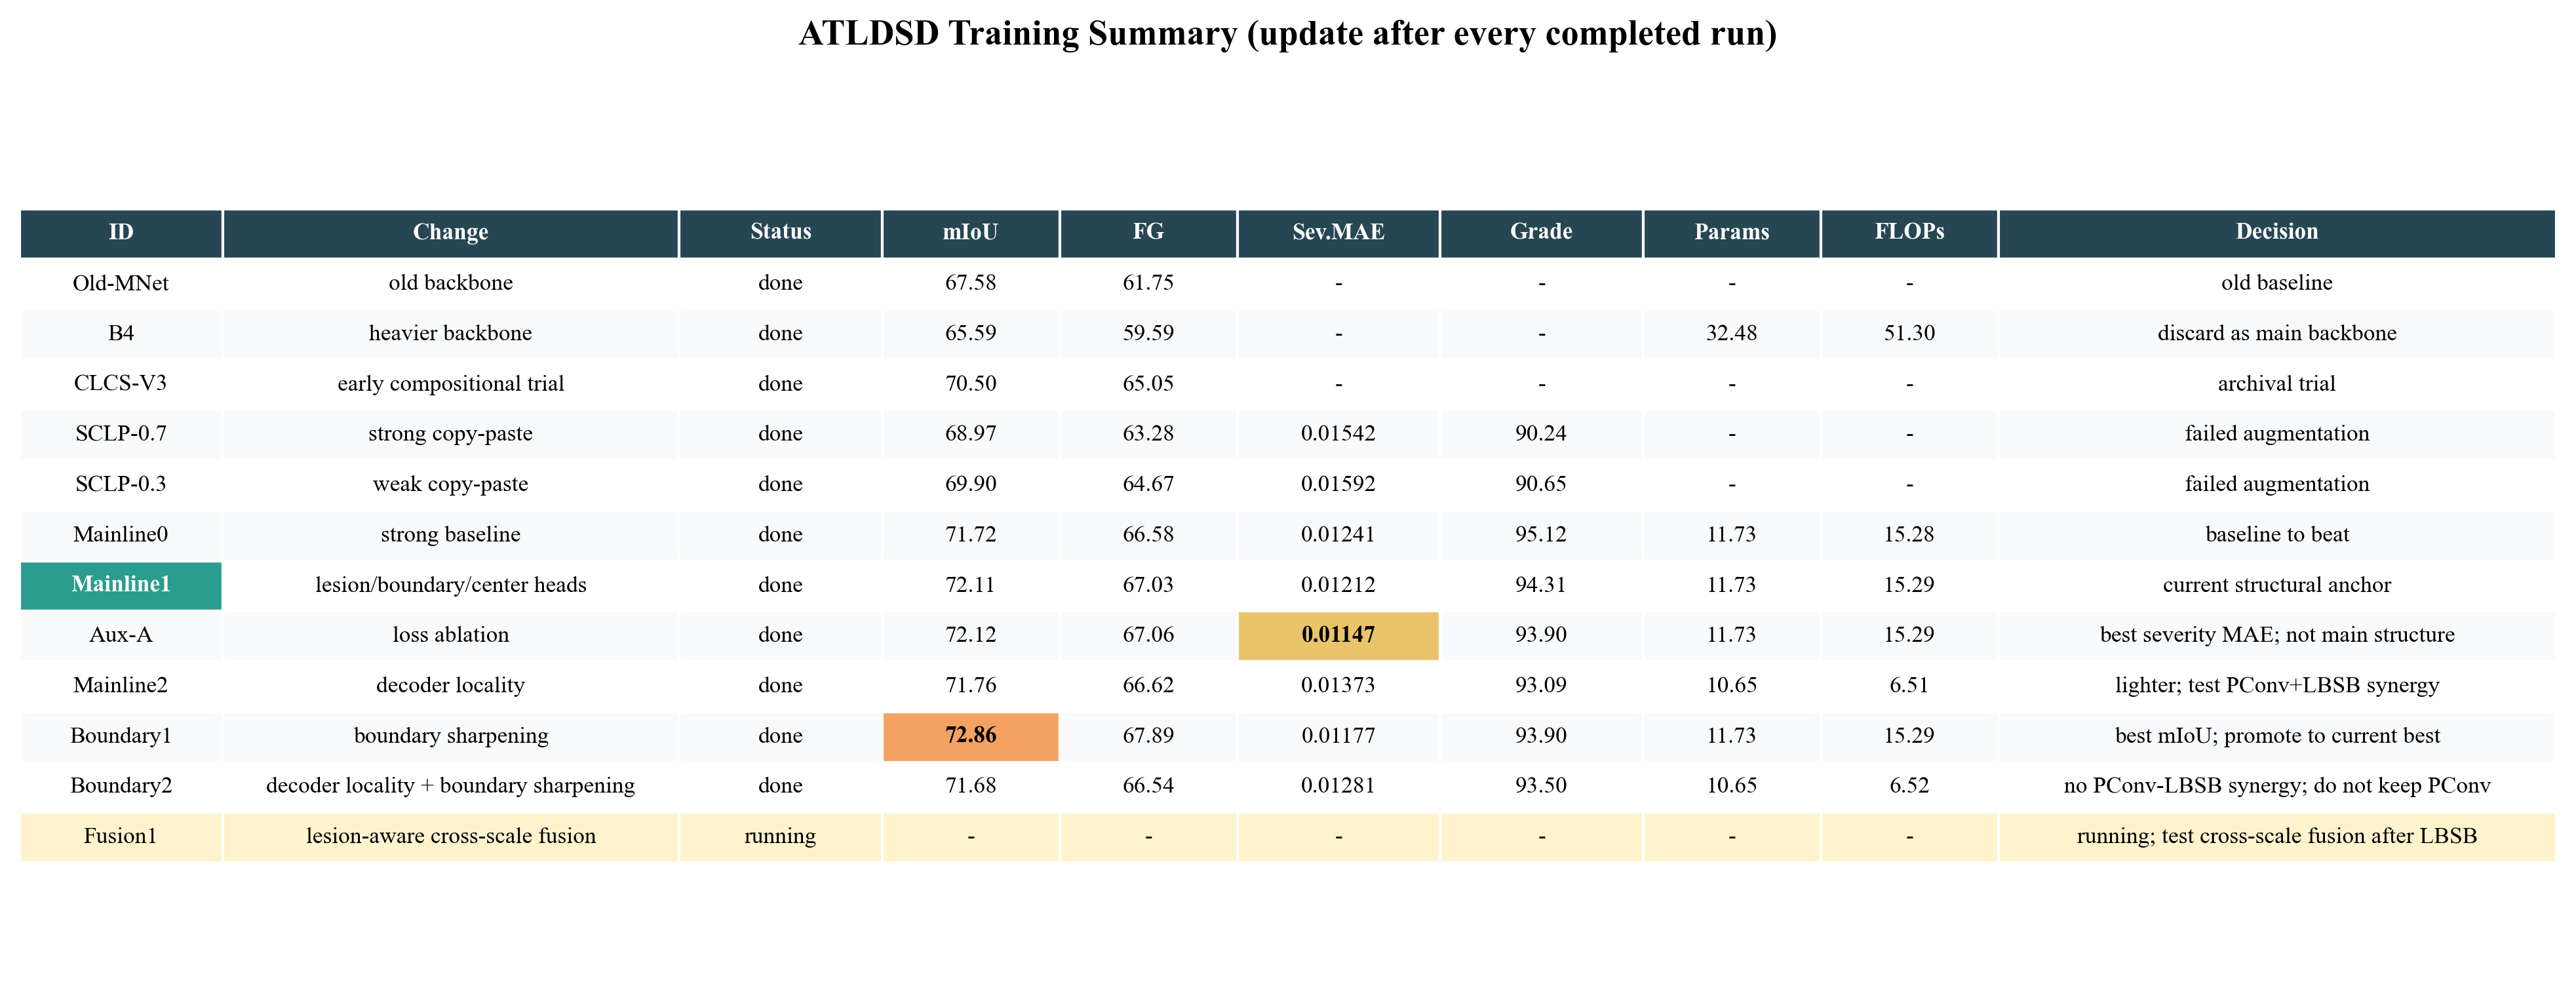
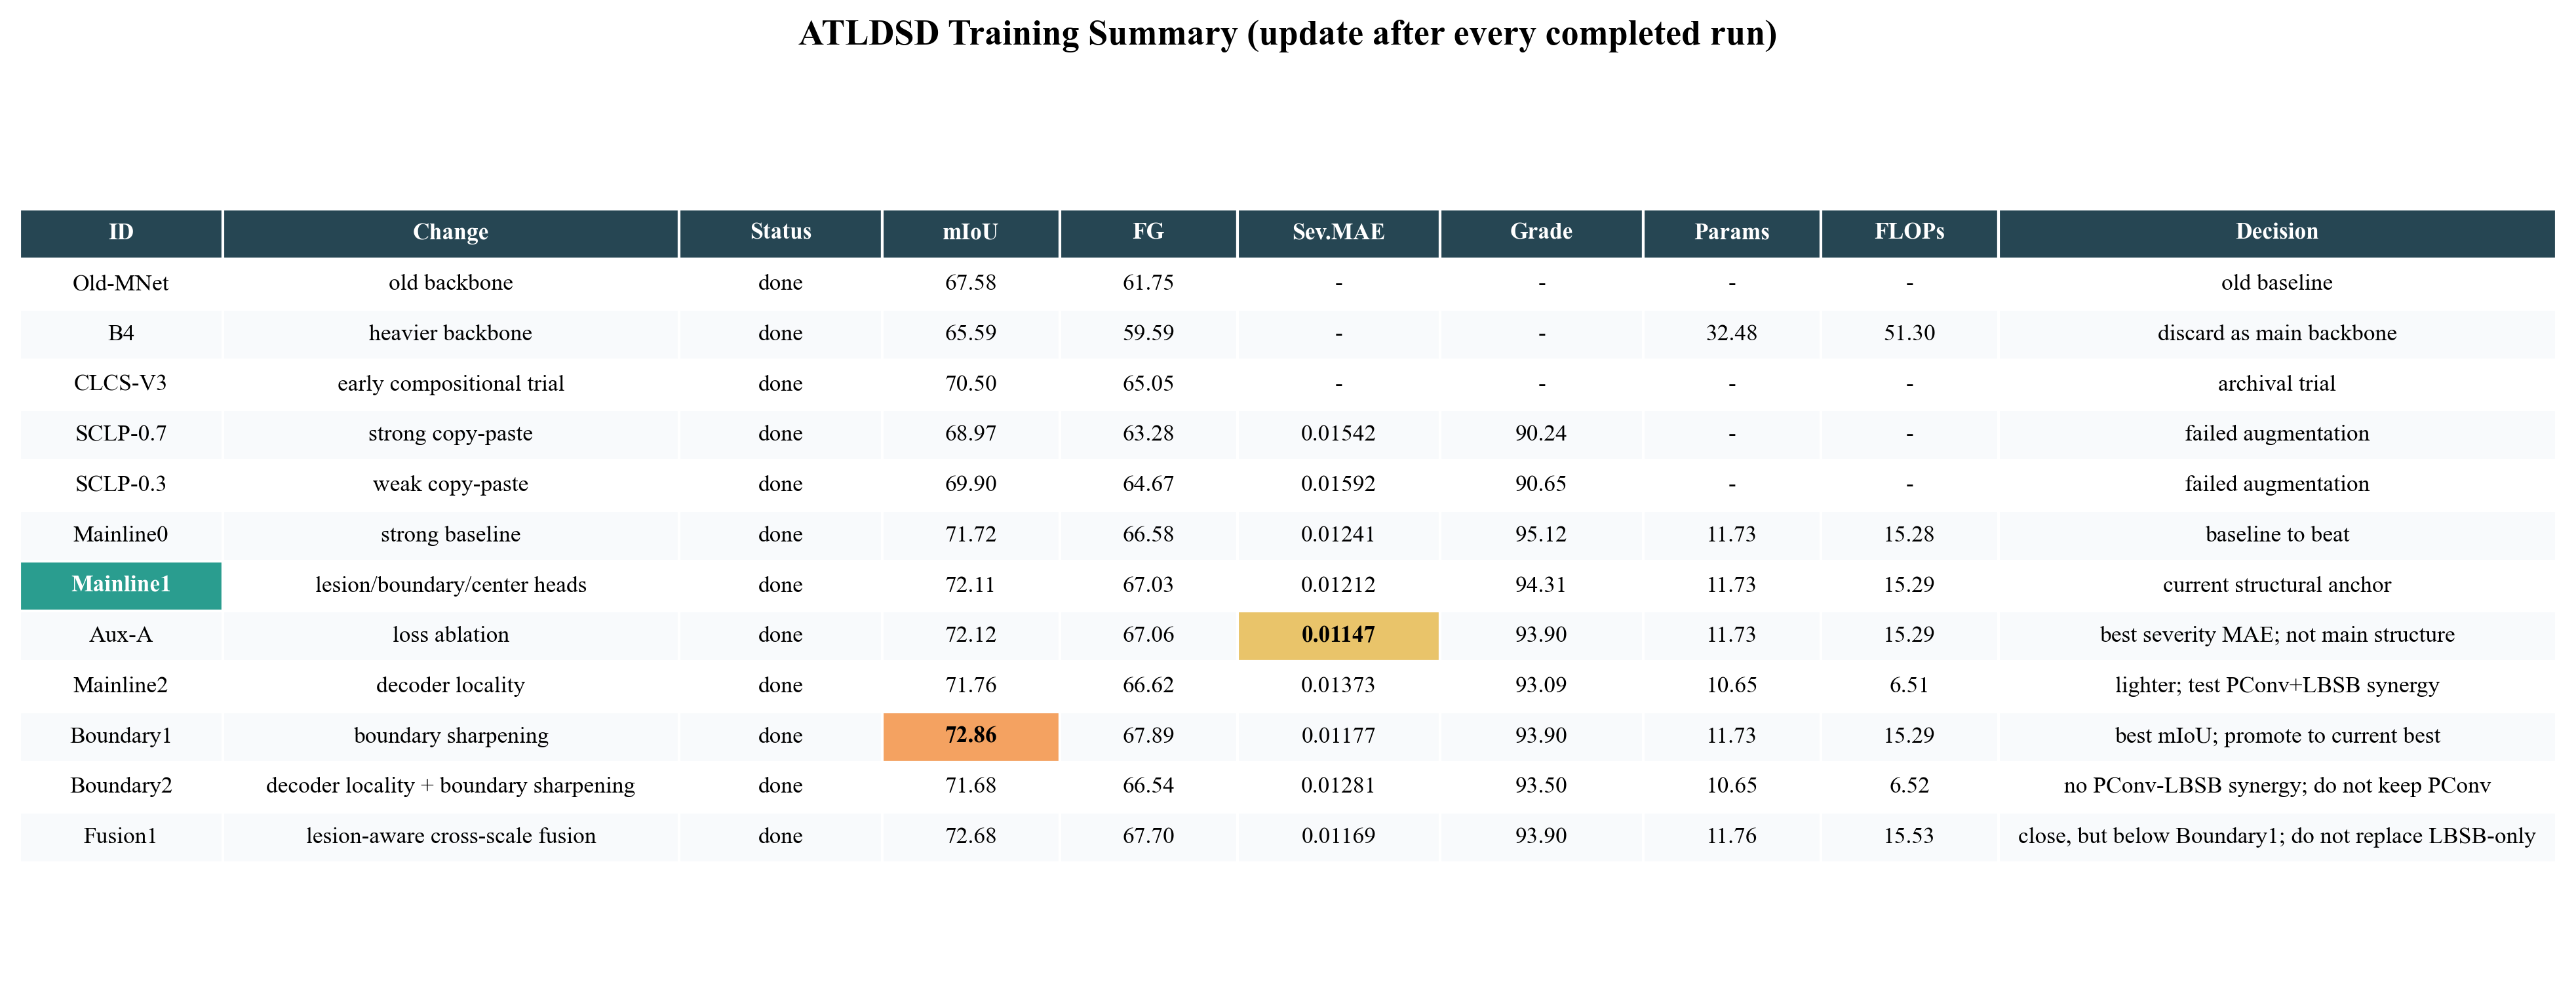
Record LCAF fusion experiment results

Changed region(s): [[0.0, 0.7987, 0.9934, 0.8601]]

diff --git a/figures/gen_fig_training_results_summary.py b/figures/gen_fig_training_results_summary.py
@@ -187,16 +187,16 @@ ROWS = [
         "id": "Fusion1",
         "method": "Mainline1 + LBSB + LCAF",
         "change": "lesion-aware cross-scale fusion",
-        "status": "running",
-        "miou": None,
-        "fg_miou": None,
-        "acc": None,
-        "severity_mae": None,
-        "grade_acc": None,
-        "params_m": None,
-        "flops_g": None,
-        "fps": None,
-        "decision": "running; test cross-scale fusion after LBSB",
+        "status": "done",
+        "miou": 72.68,
+        "fg_miou": 67.70,
+        "acc": 97.86,
+        "severity_mae": 0.01169,
+        "grade_acc": 93.90,
+        "params_m": 11.76,
+        "flops_g": 15.53,
+        "fps": 88.16,
+        "decision": "close, but below Boundary1; do not replace LBSB-only",
     },
 ]
 
@@ -424,6 +424,7 @@ def plot_model_tradeoff(rows):
         "Aux-A": (0.24, 0.34),
         "Mainline2": (-1.65, -0.28),
         "Boundary1": (0.28, 0.16),
+        "Fusion1": (0.28, -0.28),
     }
     for r in rows_with_cost:
         dx, dy = offsets.get(r["id"], (0.2, 0.2))

diff --git a/seg/ATLDSD项目进度.md b/seg/ATLDSD项目进度.md
@@ -36,25 +36,31 @@ PConv 与 LBSB 没有形成互补。
 当前最强仍然是:
 主线1 + LBSB
 
-当前正在跑:
-融合1 = 主线1 + LBSB + LCAF
+最新完成:
+融合1 = 主线1 + LBSB + LCAF 已完成 150 epoch。
 
-PID:
-12940
+结果:
+mIoU = 72.68
+FG mIoU = 67.70
+Accuracy = 97.86
+Severity MAE = 0.01169
+Grade Acc = 93.90
+Params = 11.76M
+FLOPs = 15.53G
+FPS = 88.16
 
-启动时间:
-2026-06-05 22:10
+结论:
+LCAF 没有超过边界1的 mIoU 72.86。
+rust IoU 略高于边界1，但 gray_spot / brown_spot 未超过边界1。
+LCAF 可以作为候选消融结果保留，但当前不替代 LBSB-only。
+当前最强仍然是:
+主线1 + LBSB
+
+完成时间:
[phone redacted]:46
 
 输出目录:
 D:\Code\ATLDSD\outputs\atldsd\deeplabv3plus_mobilenetv3_large_component_aux_lbsb_lcaf_150
-
-目的:
-验证 lesion-aware cross-scale fusion 是否能在 LBSB 的边界锐化基础上，进一步改善高层病斑语义和低层边缘细节的融合。
-
-判断:
-如果融合1超过边界1的 mIoU 72.86，LCAF 进入最终结构候选。
-如果融合1不超过边界1，但 gray_spot / brown_spot / alternaria_leaf_spot IoU 明显提升，可以作为小病斑增强模块保留候选。
-如果 mIoU 和小病斑类都下降，LCAF 不进入最终模型。
 
 完成时间:
 2026-06-05 19:00
@@ -256,7 +262,7 @@ D:\Code\ATLDSD\outputs\atldsd\deeplabv3plus_mobilenetv3_large_component_aux_lbsb
 | 主线2 | 主线1 + PConv | 71.76 | 66.62 | 97.80 | 0.01373 | 93.09 | 更轻但精度下降，需测试 PConv+LBSB 互补 |
 | 边界1 | 主线1 + LBSB | 72.86 | 67.89 | 97.97 | 0.01177 | 93.90 | 当前最高 mIoU，LBSB 单独有效 |
 | 边界2 | 主线1 + PConv + LBSB | 71.68 | 66.54 | 97.72 | 0.01281 | 93.50 | 未超过边界1，PConv 不保留 |
-| 融合1 | 主线1 + LBSB + LCAF | 运行中 | 运行中 | 运行中 | 运行中 | 运行中 | 验证跨尺度融合能否增强小病斑 |
+| 融合1 | 主线1 + LBSB + LCAF | 72.68 | 67.70 | 97.86 | 0.01169 | 93.90 | 接近但未超过边界1，不替代 LBSB-only |
 | B4 baseline | DeepLabV3+ + EfficientNet-B4 | 65.59 | 59.59 | 96.44 | 未主用 | 未主用 | 更重更差，弃作主干 |
 | SCLP 0.7 | 主线0 + 强 copy-paste | 68.97 | 未主用 | 未主用 | 未主用 | 未主用 | 失败增强 |
 | SCLP 0.3 | 主线0 + 弱 copy-paste | 69.90 | 未主用 | 未主用 | 未主用 | 未主用 | 仍低于主线0 |

diff --git a/outputs/atldsd/summary/training_results_summary.md b/outputs/atldsd/summary/training_results_summary.md
@@ -13,4 +13,4 @@
 | Mainline2 | Mainline1 + PConv | decoder locality | done | 71.76 | 66.62 | 0.01373 | 93.09 | 10.65 | 6.51 | lighter; test PConv+LBSB synergy |
 | Boundary1 | Mainline1 + LBSB | boundary sharpening | done | 72.86 | 67.89 | 0.01177 | 93.90 | 11.73 | 15.29 | best mIoU; promote to current best |
 | Boundary2 | Mainline1 + PConv + LBSB | decoder locality + boundary sharpening | done | 71.68 | 66.54 | 0.01281 | 93.50 | 10.65 | 6.52 | no PConv-LBSB synergy; do not keep PConv |
-| Fusion1 | Mainline1 + LBSB + LCAF | lesion-aware cross-scale fusion | running | - | - | - | - | - | - | running; test cross-scale fusion after LBSB |
+| Fusion1 | Mainline1 + LBSB + LCAF | lesion-aware cross-scale fusion | done | 72.68 | 67.70 | 0.01169 | 93.90 | 11.76 | 15.53 | close, but below Boundary1; do not replace LBSB-only |